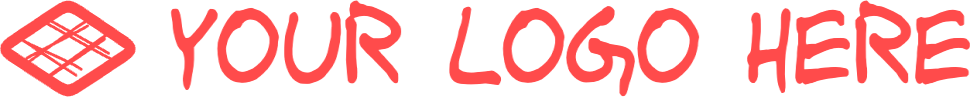
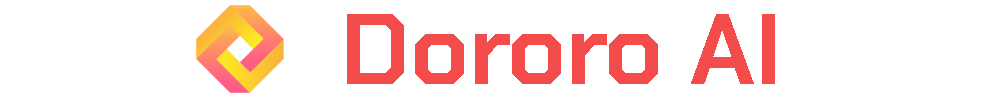
API implimentation.

diff --git a/ChatBot.py b/ChatBot.py
@@ -1,14 +1,24 @@
 import streamlit as st
 import json
 import os
+import google.generativeai as genai
 
 
-st.set_page_config(page_title="Dororo AI", page_icon="images/logo.png", layout="centered", initial_sidebar_state="auto")
-st.logo("images/logo.png", icon_image="images/logo.png")
-# docs: https://docs.streamlit.io/develop/api-reference/media/st.logo
+st.set_page_config(page_title="Dororo AI", page_icon="images/logo.png", layout="centered", initial_sidebar_state="auto") # Srujan choose this "Dororo AI" name
+st.logo("images/banner.png", icon_image="images/logo.png")
+
+GOOGLE_API_KEY = "*****************************" # Replace with Google_Api_Key 
+genai.configure(api_key=GOOGLE_API_KEY)
+geminiModel=genai.GenerativeModel("gemini-1.5-flash") 
+chat = geminiModel.start_chat(history=[])
+
+
+if "history" not in st.session_state:
+    st.session_state.history: list[dict] = []   # List for storing history messages
 
 if "messages" not in st.session_state:
-    st.session_state.messages: list[dict] = []
+    st.session_state.messages: list[dict] = []   # List to store messages for main page
+
 
 # Main page
 def ChatBot() -> None:
@@ -18,45 +28,28 @@ def ChatBot() -> None:
 
     sidebar()
 
-    # Chat
     for message in st.session_state.messages:
-        with st.chat_message(message["role"]):
-            st.markdown(message["content"])
-    
-    prompt: str = st.chat_input("Message Dodoro...")
-    if prompt:
-        st.chat_message("user").markdown(prompt)
-        st.session_state.messages.append({"role": "user", "content": prompt})
-
-        response: str = "response"
-        with st.chat_message("assistant"):
-            st.markdown(response)
-        st.session_state.messages.append({"role": "assistant", "content": response})
-
-        storeHistory(prompt, response)
-
-
-# History page
-def history() -> None:
-    ''' Stuff you see on History page '''
-    st.header("🕔 History", divider="red")
-    retrieved_list: list[dict]
-
-    # Sidebar for history page
-    if os.path.exists("History.json") and st.sidebar.button("Delete", use_container_width=True):
-        os.remove("History.json")
-        
-    # Display Chat stored in History.json
-    if os.path.exists("History.json"):
-        with open("History.json", 'r') as f:
-            retrieved_list = json.load(f)
-
-        for message in retrieved_list:
             with st.chat_message(message["role"]):
                 st.markdown(message["content"])
 
-    else:
-        st.subheader("Nothing to show.")
+# how can i display hello world on terminal using rust?
+    # Chat 
+    prompt: str = st.chat_input("Message Dodoro...")
+    if prompt:
+        with st.chat_message("user"):
+            st.markdown(f"You: {prompt}")
+
+        st.session_state.messages.append({"role": "user", "content": f"You: {prompt}"})
+
+        response = chat.send_message(prompt)
+        response = f"Dororo: \n{response.text}"
+
+        with st.chat_message("assistant"):
+            st.markdown(response)
+
+        st.session_state.messages.append({"role": "assistant", "content": response})
+
+        st.session_state.history.extend(st.session_state.messages)
 
 
 def sidebar() -> None:
@@ -73,22 +66,23 @@ def sidebar() -> None:
         st.session_state.messages.clear()
 
 
-def storeHistory(user_prompt: str, bot_response: str) -> None:
-    ''' Function to create and store Chat history in History.json file '''
-    existing_data: list
+# History page
+def history() -> None:
+    ''' Stuff you see on History page '''
+    st.header("🕔 History", divider="red")
 
-    if os.path.exists("History.json"):
-        with open("History.json", 'r') as f:
-            existing_data = json.load(f)
+    # Sidebar for history page
+    if st.sidebar.button("Delete", use_container_width=True):
+        st.session_state.history.clear()
+        st.session_state.messages.clear()
 
-        existing_data.extend([{"role": "user", "content": user_prompt}, {"role": "assistant", "content": bot_response}])
-        json_list = json.dumps(existing_data)
-    
+    if st.session_state.history:
+        # Display Chat stored in st.session_state.history
+        for message in st.session_state.history:
+            with st.chat_message(message["role"]):
+                st.markdown(message["content"])
     else:
-        json_list = json.dumps(st.session_state.messages)
-
-    with open("History.json", 'w') as f:
-        f.write(json_list)
+        st.subheader("Nothing to show.")
 
 
 # Pages
